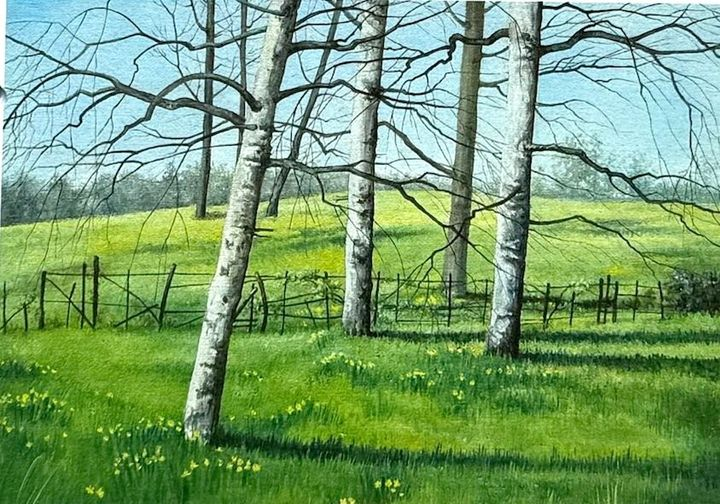
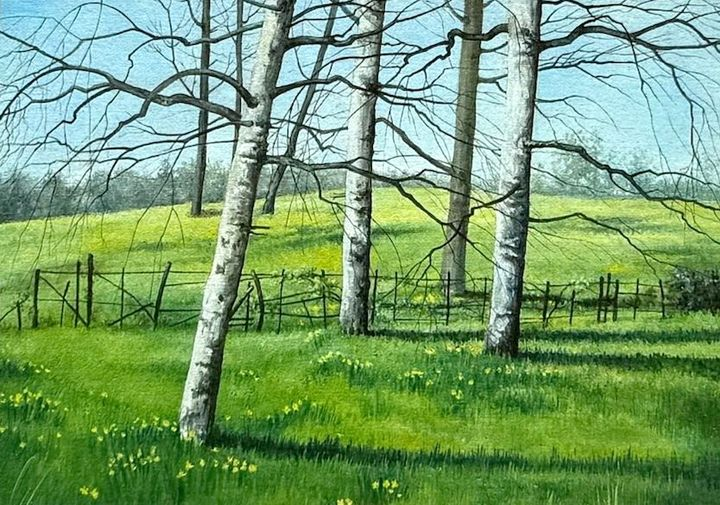
No. 139: trim the slivers of background at the top and left edges
Claude-Session: https://claude.ai/code/session_01DXftZE4vQKfDt7Q36KHzd9

diff --git a/sold.html b/sold.html
@@ -49,9 +49,9 @@
 <img class="room" src="img/room-small.jpg" alt="" width="904" height="1120" loading="lazy">
 <div class="hang bare" style="--tw:34.65;--th:45;--fw:0;--mx:0;--mt:0;--mb:0;--by:618">
 <img src="img/t/114.jpg" alt="Landscape with Birch Trees shown at its real size on a wall" loading="lazy"></div>
-</div><p class="pane-note">Shown at its real size, 45 × 35 cm. Above a side table about 65 cm across. The room is an illustration.</p></div><div class="views" role="group" aria-label="Choose a view of Landscape with Birch Trees"><button type="button" class="view-btn" data-view="painting" aria-pressed="true"><img src="img/t/114.jpg" alt="">The painting</button><button type="button" class="view-btn" data-view="wall" aria-pressed="false"><img src="img/room-small-thumb.jpg" alt="">On a wall</button></div></div><div class="ex-info"><h2>Landscape with Birch Trees</h2><dl><dt>Medium</dt><dd>Oil on canvas board</dd><dt>Size</dt><dd>45 × 35 cm</dd><dt>Year</dt><dd>2008</dd><dt>Inspired by</dt><dd>Hampshire</dd><dt>Price</dt><dd>Sold</dd><dt>Catalogue no.</dt><dd>114</dd></dl><p>Landscape with birch trees in Hampshire, England. Again, the interest here is the white of the tree bark against the green background of trees and fields.</p><p class="ex-links"><button type="button" class="share-btn" data-url="https://joanmullinsart.co.uk/w-114.html" data-title="Landscape with Birch Trees, by Joan Mullins"><svg aria-hidden="true" viewBox="0 0 24 24" width="16" height="16" fill="none" stroke="currentColor" stroke-width="1.8" stroke-linecap="round" stroke-linejoin="round"><path d="M4 12v7a1 1 0 0 0 1 1h14a1 1 0 0 0 1-1v-7"/><path d="M12 3v12"/><path d="M7 8l5-5 5 5"/></svg><span>Share</span></button></p></div></article><article class="ex" data-status="sold" id="w-124"><div class="ex-pic viewer"><div class="pane" data-pane="painting"><a href="img/w/124.jpg" data-zoom title="See it larger"><img src="img/w/124.jpg" alt="Two Dogs in the Pea Fields" loading="lazy" width="970" height="1100"></a></div></div><div class="ex-info"><h2>Two Dogs in the Pea Fields</h2><dl><dt>Medium</dt><dd>Oil on canvas board</dd><dt>Price</dt><dd>Sold</dd><dt>Catalogue no.</dt><dd>124</dd></dl><p class="ex-links"><button type="button" class="share-btn" data-url="https://joanmullinsart.co.uk/w-124.html" data-title="Two Dogs in the Pea Fields, by Joan Mullins"><svg aria-hidden="true" viewBox="0 0 24 24" width="16" height="16" fill="none" stroke="currentColor" stroke-width="1.8" stroke-linecap="round" stroke-linejoin="round"><path d="M4 12v7a1 1 0 0 0 1 1h14a1 1 0 0 0 1-1v-7"/><path d="M12 3v12"/><path d="M7 8l5-5 5 5"/></svg><span>Share</span></button></p></div></article><article class="ex" data-status="sold" id="w-139"><div class="ex-pic viewer"><div class="pane" data-pane="painting"><a href="img/w/139.jpg" data-zoom title="See it larger"><img src="img/w/139.jpg" alt="Birch Trees in Spring with Dandelions" loading="lazy" width="844" height="591"></a></div><div class="pane" data-pane="wall"><div class="wall" style="--rw:1086;--rh:1065;--s:13.0;--cx:616;--by:521">
+</div><p class="pane-note">Shown at its real size, 45 × 35 cm. Above a side table about 65 cm across. The room is an illustration.</p></div><div class="views" role="group" aria-label="Choose a view of Landscape with Birch Trees"><button type="button" class="view-btn" data-view="painting" aria-pressed="true"><img src="img/t/114.jpg" alt="">The painting</button><button type="button" class="view-btn" data-view="wall" aria-pressed="false"><img src="img/room-small-thumb.jpg" alt="">On a wall</button></div></div><div class="ex-info"><h2>Landscape with Birch Trees</h2><dl><dt>Medium</dt><dd>Oil on canvas board</dd><dt>Size</dt><dd>45 × 35 cm</dd><dt>Year</dt><dd>2008</dd><dt>Inspired by</dt><dd>Hampshire</dd><dt>Price</dt><dd>Sold</dd><dt>Catalogue no.</dt><dd>114</dd></dl><p>Landscape with birch trees in Hampshire, England. Again, the interest here is the white of the tree bark against the green background of trees and fields.</p><p class="ex-links"><button type="button" class="share-btn" data-url="https://joanmullinsart.co.uk/w-114.html" data-title="Landscape with Birch Trees, by Joan Mullins"><svg aria-hidden="true" viewBox="0 0 24 24" width="16" height="16" fill="none" stroke="currentColor" stroke-width="1.8" stroke-linecap="round" stroke-linejoin="round"><path d="M4 12v7a1 1 0 0 0 1 1h14a1 1 0 0 0 1-1v-7"/><path d="M12 3v12"/><path d="M7 8l5-5 5 5"/></svg><span>Share</span></button></p></div></article><article class="ex" data-status="sold" id="w-124"><div class="ex-pic viewer"><div class="pane" data-pane="painting"><a href="img/w/124.jpg" data-zoom title="See it larger"><img src="img/w/124.jpg" alt="Two Dogs in the Pea Fields" loading="lazy" width="970" height="1100"></a></div></div><div class="ex-info"><h2>Two Dogs in the Pea Fields</h2><dl><dt>Medium</dt><dd>Oil on canvas board</dd><dt>Price</dt><dd>Sold</dd><dt>Catalogue no.</dt><dd>124</dd></dl><p class="ex-links"><button type="button" class="share-btn" data-url="https://joanmullinsart.co.uk/w-124.html" data-title="Two Dogs in the Pea Fields, by Joan Mullins"><svg aria-hidden="true" viewBox="0 0 24 24" width="16" height="16" fill="none" stroke="currentColor" stroke-width="1.8" stroke-linecap="round" stroke-linejoin="round"><path d="M4 12v7a1 1 0 0 0 1 1h14a1 1 0 0 0 1-1v-7"/><path d="M12 3v12"/><path d="M7 8l5-5 5 5"/></svg><span>Share</span></button></p></div></article><article class="ex" data-status="sold" id="w-139"><div class="ex-pic viewer"><div class="pane" data-pane="painting"><a href="img/w/139.jpg" data-zoom title="See it larger"><img src="img/w/139.jpg" alt="Birch Trees in Spring with Dandelions" loading="lazy" width="834" height="585"></a></div><div class="pane" data-pane="wall"><div class="wall" style="--rw:1086;--rh:1065;--s:13.0;--cx:616;--by:521">
 <img class="room" src="img/room-desk.jpg" alt="" width="1086" height="1065" loading="lazy">
-<div class="hang bare" style="--tw:30;--th:21.0071;--fw:0;--mx:0;--mt:0;--mb:0;--by:618.5">
+<div class="hang bare" style="--tw:30;--th:21.0432;--fw:0;--mx:0;--mt:0;--mb:0;--by:618.2">
 <img src="img/t/139.jpg" alt="Birch Trees in Spring with Dandelions shown at its real size on a wall" loading="lazy"></div>
 </div><p class="pane-note">Shown at its real size, 20 × 30 cm. Above a writing desk, hung to be seen sitting down. The room is an illustration.</p></div><div class="views" role="group" aria-label="Choose a view of Birch Trees in Spring with Dandelions"><button type="button" class="view-btn" data-view="painting" aria-pressed="true"><img src="img/t/139.jpg" alt="">The painting</button><button type="button" class="view-btn" data-view="wall" aria-pressed="false"><img src="img/room-desk-thumb.jpg" alt="">On a wall</button></div></div><div class="ex-info"><h2>Birch Trees in Spring with Dandelions</h2><dl><dt>Medium</dt><dd>Oil on canvas board</dd><dt>Size</dt><dd>20 × 30 cm</dd><dt>Price</dt><dd>Sold</dd><dt>Catalogue no.</dt><dd>139</dd></dl><p class="ex-links"><button type="button" class="share-btn" data-url="https://joanmullinsart.co.uk/w-139.html" data-title="Birch Trees in Spring with Dandelions, by Joan Mullins"><svg aria-hidden="true" viewBox="0 0 24 24" width="16" height="16" fill="none" stroke="currentColor" stroke-width="1.8" stroke-linecap="round" stroke-linejoin="round"><path d="M4 12v7a1 1 0 0 0 1 1h14a1 1 0 0 0 1-1v-7"/><path d="M12 3v12"/><path d="M7 8l5-5 5 5"/></svg><span>Share</span></button></p></div></article><article class="ex" data-status="sold" id="w-140"><div class="ex-pic viewer"><div class="pane" data-pane="painting"><a href="img/w/140.jpg" data-zoom title="See it larger"><img src="img/w/140.jpg" alt="Trees in Wood" loading="lazy" width="930" height="1100"></a></div></div><div class="ex-info"><h2>Trees in Wood</h2><dl><dt>Medium</dt><dd>Watercolour on paper</dd><dt>Price</dt><dd>Sold</dd><dt>Catalogue no.</dt><dd>140</dd></dl><p class="ex-links"><button type="button" class="share-btn" data-url="https://joanmullinsart.co.uk/w-140.html" data-title="Trees in Wood, by Joan Mullins"><svg aria-hidden="true" viewBox="0 0 24 24" width="16" height="16" fill="none" stroke="currentColor" stroke-width="1.8" stroke-linecap="round" stroke-linejoin="round"><path d="M4 12v7a1 1 0 0 0 1 1h14a1 1 0 0 0 1-1v-7"/><path d="M12 3v12"/><path d="M7 8l5-5 5 5"/></svg><span>Share</span></button></p></div></article><article class="ex" data-status="sold" id="w-177"><div class="ex-pic viewer"><div class="pane" data-pane="painting"><a href="img/w/177.jpg" data-zoom title="See it larger"><img src="img/w/177.jpg" alt="Birches in autumn" loading="lazy" width="695" height="1100"></a></div></div><div class="ex-info"><h2>Birches in autumn</h2><dl><dt>Medium</dt><dd>Oil on canvas board</dd><dt>Price</dt><dd>Sold</dd><dt>Catalogue no.</dt><dd>177</dd></dl><p class="ex-links"><button type="button" class="share-btn" data-url="https://joanmullinsart.co.uk/w-177.html" data-title="Birches in autumn, by Joan Mullins"><svg aria-hidden="true" viewBox="0 0 24 24" width="16" height="16" fill="none" stroke="currentColor" stroke-width="1.8" stroke-linecap="round" stroke-linejoin="round"><path d="M4 12v7a1 1 0 0 0 1 1h14a1 1 0 0 0 1-1v-7"/><path d="M12 3v12"/><path d="M7 8l5-5 5 5"/></svg><span>Share</span></button></p></div></article><article class="ex" data-status="sold" id="w-179"><div class="ex-pic viewer"><div class="pane" data-pane="painting"><a href="img/w/179.jpg" data-zoom title="See it larger"><img src="img/w/179.jpg" alt="Watercolour of a red-roofed stone barn in France, beside blossoming trees and a field of yellow flowers." loading="lazy" width="847" height="608"></a></div></div><div class="ex-info"><h2>Redroofed barn - France</h2><dl><dt>Medium</dt><dd>Watercolour on paper</dd><dt>Year</dt><dd>2010</dd><dt>Inspired by</dt><dd>France</dd><dt>Price</dt><dd>Sold</dd><dt>Catalogue no.</dt><dd>179</dd></dl><p>A countryside scene based on a photograph but extensively changed. Painted in watercolour, with the use of masking fluid for the blossom.</p><p class="ex-links"><button type="button" class="share-btn" data-url="https://joanmullinsart.co.uk/w-179.html" data-title="Redroofed barn - France, by Joan Mullins"><svg aria-hidden="true" viewBox="0 0 24 24" width="16" height="16" fill="none" stroke="currentColor" stroke-width="1.8" stroke-linecap="round" stroke-linejoin="round"><path d="M4 12v7a1 1 0 0 0 1 1h14a1 1 0 0 0 1-1v-7"/><path d="M12 3v12"/><path d="M7 8l5-5 5 5"/></svg><span>Share</span></button></p></div></article><article class="ex" data-status="sold" id="w-191"><div class="ex-pic viewer"><div class="pane" data-pane="painting"><a href="img/w/191.jpg" data-zoom title="See it larger"><img src="img/w/191.jpg" alt="Bluebells in the hedgerow" loading="lazy" width="1100" height="845"></a></div></div><div class="ex-info"><h2>Bluebells in the hedgerow</h2><dl><dt>Medium</dt><dd>Oil on canvas board</dd><dt>Year</dt><dd>2018</dd><dt>Price</dt><dd>Sold</dd><dt>Catalogue no.</dt><dd>191</dd></dl><p class="ex-links"><button type="button" class="share-btn" data-url="https://joanmullinsart.co.uk/w-191.html" data-title="Bluebells in the hedgerow, by Joan Mullins"><svg aria-hidden="true" viewBox="0 0 24 24" width="16" height="16" fill="none" stroke="currentColor" stroke-width="1.8" stroke-linecap="round" stroke-linejoin="round"><path d="M4 12v7a1 1 0 0 0 1 1h14a1 1 0 0 0 1-1v-7"/><path d="M12 3v12"/><path d="M7 8l5-5 5 5"/></svg><span>Share</span></button></p></div></article><article class="ex" data-status="sold" id="w-197"><div class="ex-pic viewer"><div class="pane" data-pane="painting"><a href="img/w/197.jpg" data-zoom title="See it larger"><img src="img/w/197.jpg" alt="Study of three Shells" loading="lazy" width="1100" height="861"></a></div></div><div class="ex-info"><h2>Study of three Shells</h2><dl><dt>Medium</dt><dd>Watercolour on paper</dd><dt>Year</dt><dd>1990s</dd><dt>Price</dt><dd>Sold</dd><dt>Catalogue no.</dt><dd>197</dd></dl><p class="ex-links"><button type="button" class="share-btn" data-url="https://joanmullinsart.co.uk/w-197.html" data-title="Study of three Shells, by Joan Mullins"><svg aria-hidden="true" viewBox="0 0 24 24" width="16" height="16" fill="none" stroke="currentColor" stroke-width="1.8" stroke-linecap="round" stroke-linejoin="round"><path d="M4 12v7a1 1 0 0 0 1 1h14a1 1 0 0 0 1-1v-7"/><path d="M12 3v12"/><path d="M7 8l5-5 5 5"/></svg><span>Share</span></button></p></div></article><article class="ex" data-status="sold" id="w-206"><div class="ex-pic viewer"><div class="pane" data-pane="painting"><a href="img/w/206.jpg" data-zoom title="See it larger"><img src="img/w/206.jpg" alt="Watercolour and pencil study of a large white shell on a bright red background." loading="lazy" width="1600" height="1108"></a></div><div class="pane" data-pane="wall"><div class="wall" style="--rw:1039;--rh:1513;--s:7.6;--cx:516;--by:781">
 <img class="room" src="img/room.jpg" alt="" width="1039" height="1513" loading="lazy">

diff --git a/w-139.html b/w-139.html
@@ -29,7 +29,7 @@
 <main id="main">
 <script>location.replace("sold.html#w-139");</script>
 <article class="wrap work">
-<figure><img src="img/w/139.jpg" alt="Birch Trees in Spring with Dandelions" width="844" height="591"></figure>
+<figure><img src="img/w/139.jpg" alt="Birch Trees in Spring with Dandelions" width="834" height="585"></figure>
 <div class="info"><h1>Birch Trees in Spring with Dandelions</h1>
 <dl><dt>Medium</dt><dd>Oil on canvas board</dd><dt>Size</dt><dd>20 × 30 cm</dd><dt>Price</dt><dd>Sold</dd><dt>Catalogue no.</dt><dd>139</dd></dl>
 <p><a href="sold.html#w-139">See it in the gallery</a></p></div>
